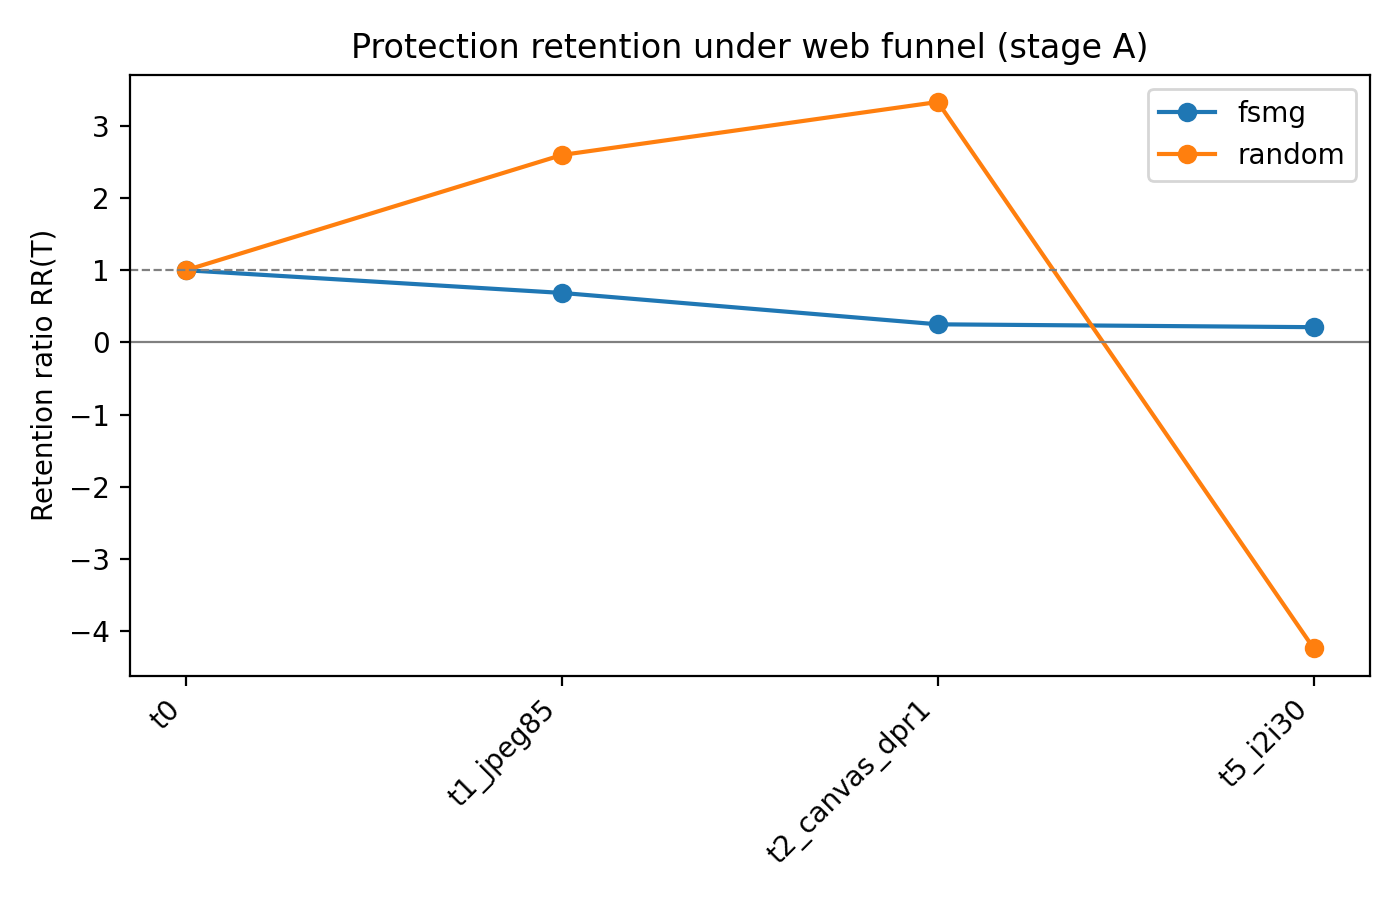
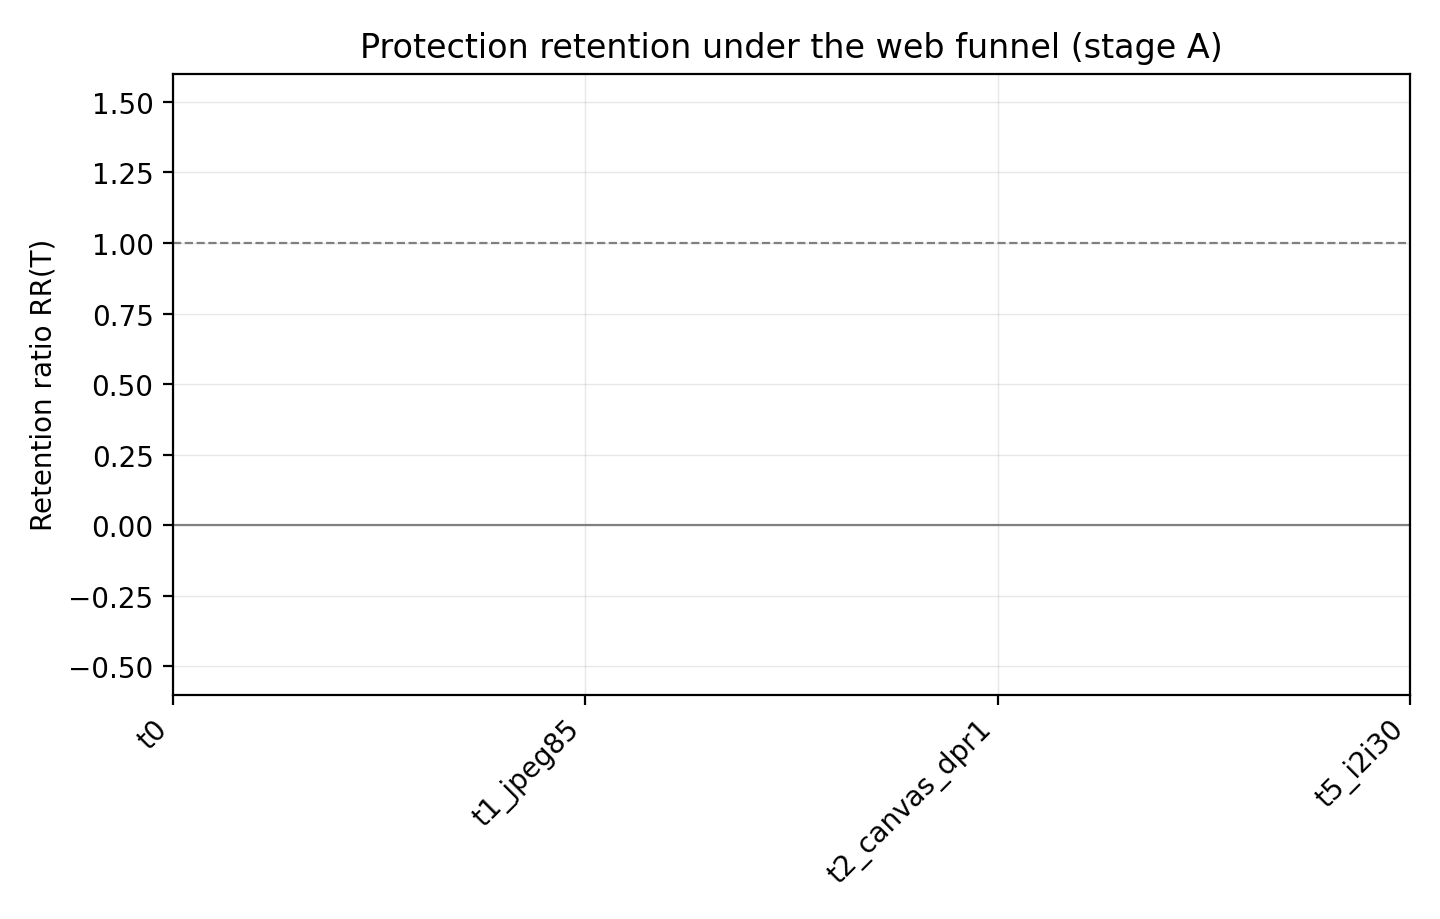
figures v2 output

diff --git a/report/report.md b/report/report.md
@@ -1,6 +1,22 @@
 # ScrapeBench run smoke
 
-Generated 2026-10-10 14:13:03.349328
+Generated 2026-10-10 14:14:28.914902
 
 ## Mean identity similarity by method and tier
 
+| stage   | method   | tier           |    mean |   count |   ci_lo |   ci_hi |
+|:--------|:---------|:---------------|--------:|--------:|--------:|--------:|
+| A       | clean    | t0             | 0.347   |       2 | 0.2756  | 0.4142  |
+| A       | clean    | t1_jpeg85      | 0.34265 |       2 | 0.2635  | 0.4118  |
+| A       | clean    | t2_canvas_dpr1 | 0.3417  |       2 | 0.26475 | 0.4112  |
+| A       | clean    | t5_i2i30       | 0.21955 |       2 | 0.16425 | 0.26365 |
+| A       | fsmg     | t0             | 0.3217  |       2 | 0.22935 | 0.3984  |
+| A       | fsmg     | t1_jpeg85      | 0.3253  |       2 | 0.26165 | 0.3895  |
+| A       | fsmg     | t2_canvas_dpr1 | 0.33535 |       2 | 0.2616  | 0.4026  |
+| A       | fsmg     | t5_i2i30       | 0.2142  |       2 | 0.18035 | 0.24785 |
+| A       | random   | t0             | 0.3423  |       2 | 0.269   | 0.41755 |
+| A       | random   | t1_jpeg85      | 0.33045 |       2 | 0.25515 | 0.39445 |
+| A       | random   | t2_canvas_dpr1 | 0.32605 |       2 | 0.23715 | 0.3988  |
+| A       | random   | t5_i2i30       | 0.23945 |       2 | 0.1969  | 0.27835 |
+
+See figures/ for collapse curves and runs/*/retention_stage_*.csv for RR tables.
